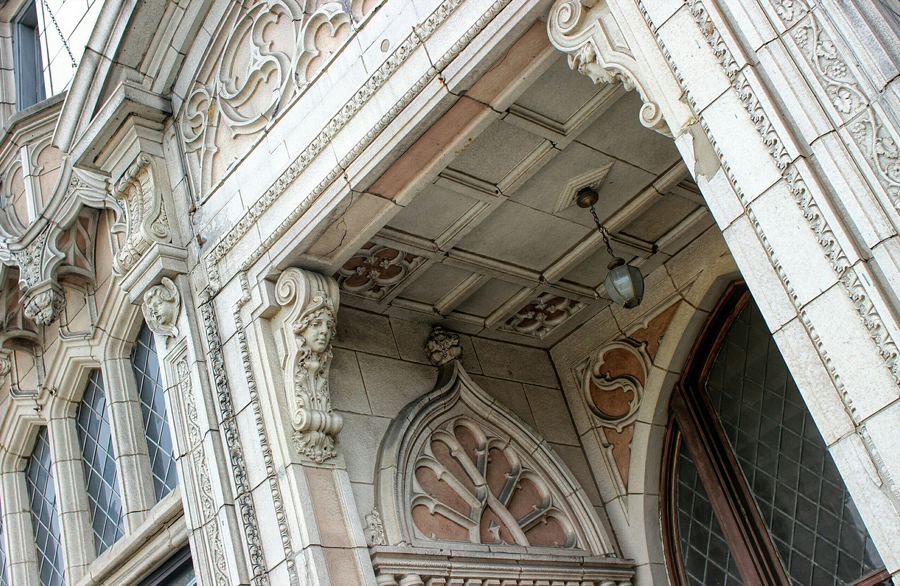
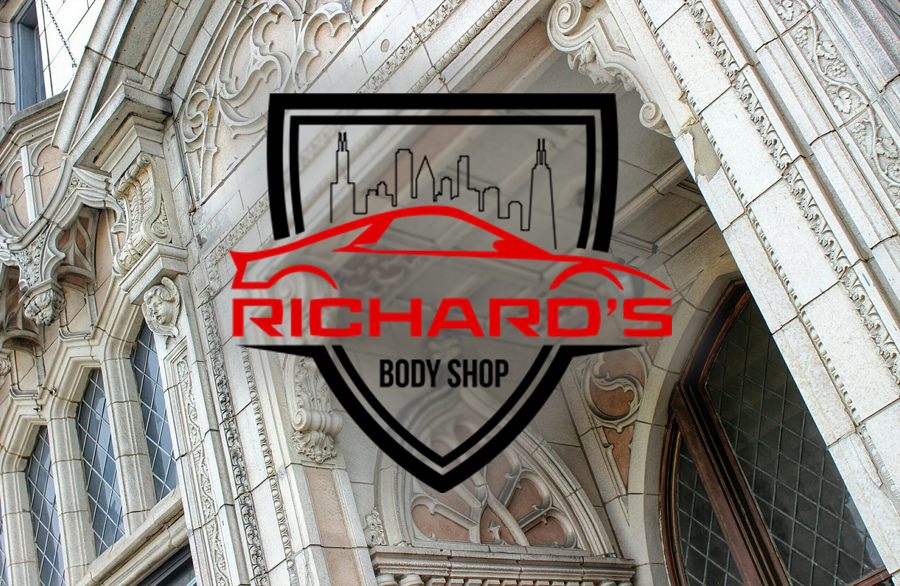
Names

Changed region(s): [[0.2178, 0.0922, 0.8089, 0.8908]]

diff --git a/index.html b/index.html
@@ -6,19 +6,17 @@
    <!--- Basic Page Needs
    ================================================== -->
    <meta charset="utf-8">
-   <title>Isaac Zipperstein - Home</title>
-   <meta property="og:title" content="Isaac Zipperstein" />
-   <meta property="og:image" content="http://isaaczipperstein.com/images/certifications/HS13.jpg" />
+   <title>Richard's Body Shop - Home</title>
+   <meta property="og:title" content="Richard's Body Shop" />
+   <meta property="og:image" content="images/richards_1.png" />
    <meta property="og:image:alt" content="generating link preview" />
    <meta name="twitter:card" content="summary_large_image">
-   <meta name="twitter:creator" content="Isaac Zipperstein">
-   <meta name="twitter:site" content="isaaczipperstein.com">
-   <meta name="twitter:title" content="Isaac Zipperstein">
-   <meta name="twitter:image:src" content="http://isaaczipperstein.com/images/certifications/HS13.jpg">
-   <meta name="twitter:image:width" content="2006">
-   <meta name="twitter:image:height" content="1123">
-   <meta name="description" content="">
-   <meta name="author" content="">
+   <meta name="twitter:creator" content="Richard's Body Shop">
+   <meta name="twitter:site" content="richardsbodyshop.com">
+   <meta name="twitter:title" content="Richard's Body Shop">
+   <meta name="twitter:image:src" content="images/richards_1.png">
+   <meta name="twitter:image:width" content="900">
+   <meta name="twitter:image:height" content="586">
 
    <!-- Mobile Specific Metas
    ================================================== -->
